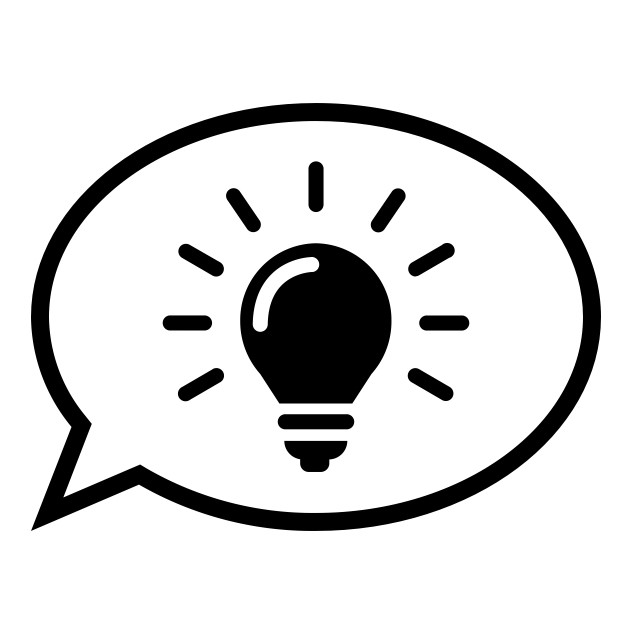
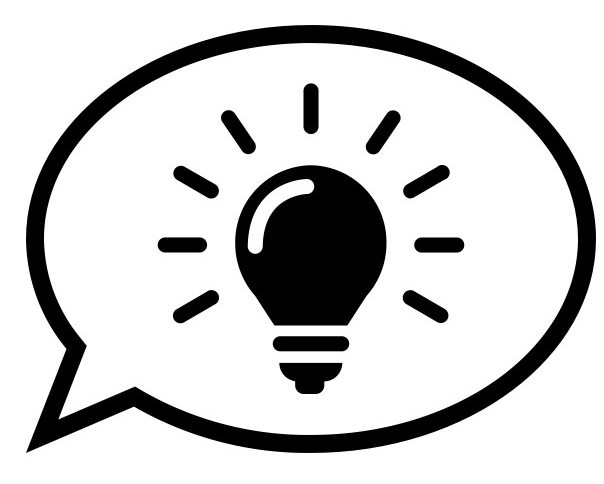
关键字处图片修改

diff --git a/brand.html b/brand.html
@@ -28,7 +28,7 @@
         <span class="icon-bar"></span>
       </button>
       <a class="navbar-logo" href="index.html">
-	      <img class="navbar-logo-image" alt="LinkEdu" src="pic/wlogo.jpg" height="50px">
+	      <img class="navbar-logo-image" alt="LinkEdu" src="pic/wlogo1.jpg" height="50px">
       </a>
     </div>
             <div class="navbar-collapse collapse navbar-right" style="height: auto;">

diff --git a/team.html b/team.html
@@ -36,7 +36,7 @@
         <span class="icon-bar"></span>
       </button>
       <a class="navbar-logo" href="index.html">
-	      <img class="navbar-logo-image" alt="LinkEdu" src="pic/wlogo.jpg" height="50px">
+	      <img class="navbar-logo-image" alt="LinkEdu" src="pic/wlogo1.jpg" height="50px">
       </a>
     </div>
             <div class="navbar-collapse collapse navbar-right" style="height: auto;">

diff --git a/index.html b/index.html
@@ -27,7 +27,7 @@
         <span class="icon-bar"></span>
       </button>
       <a class="navbar-logo" href="index.html">
-	      <img class="navbar-logo-image" alt="LinkEdu" src="pic/wlogo.jpg" height="50px">
+	      <img class="navbar-logo-image" alt="LinkEdu" src="pic/wlogo1.jpg" height="50px">
       </a>
     </div>
             <div class="navbar-collapse collapse navbar-right" style="width:50%">
